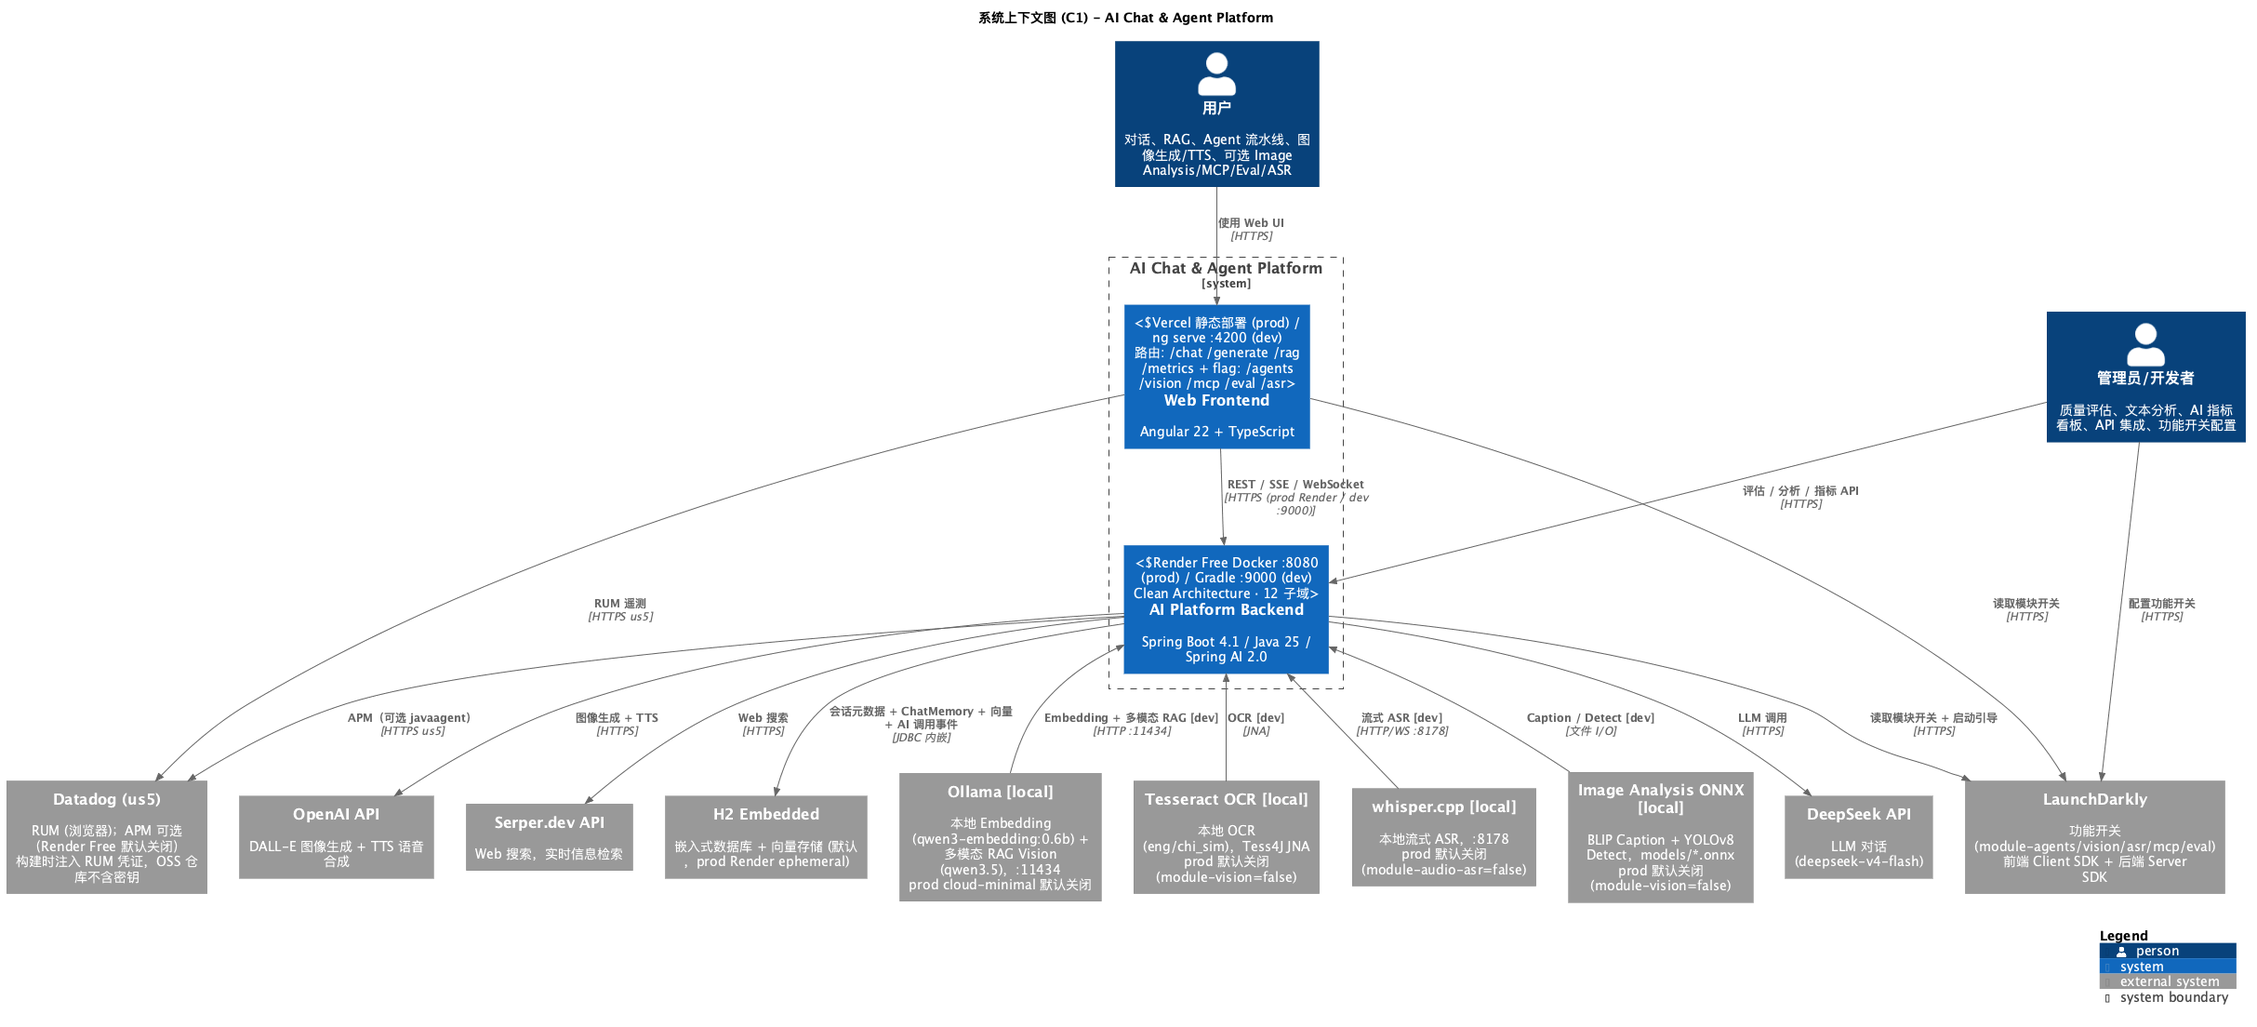
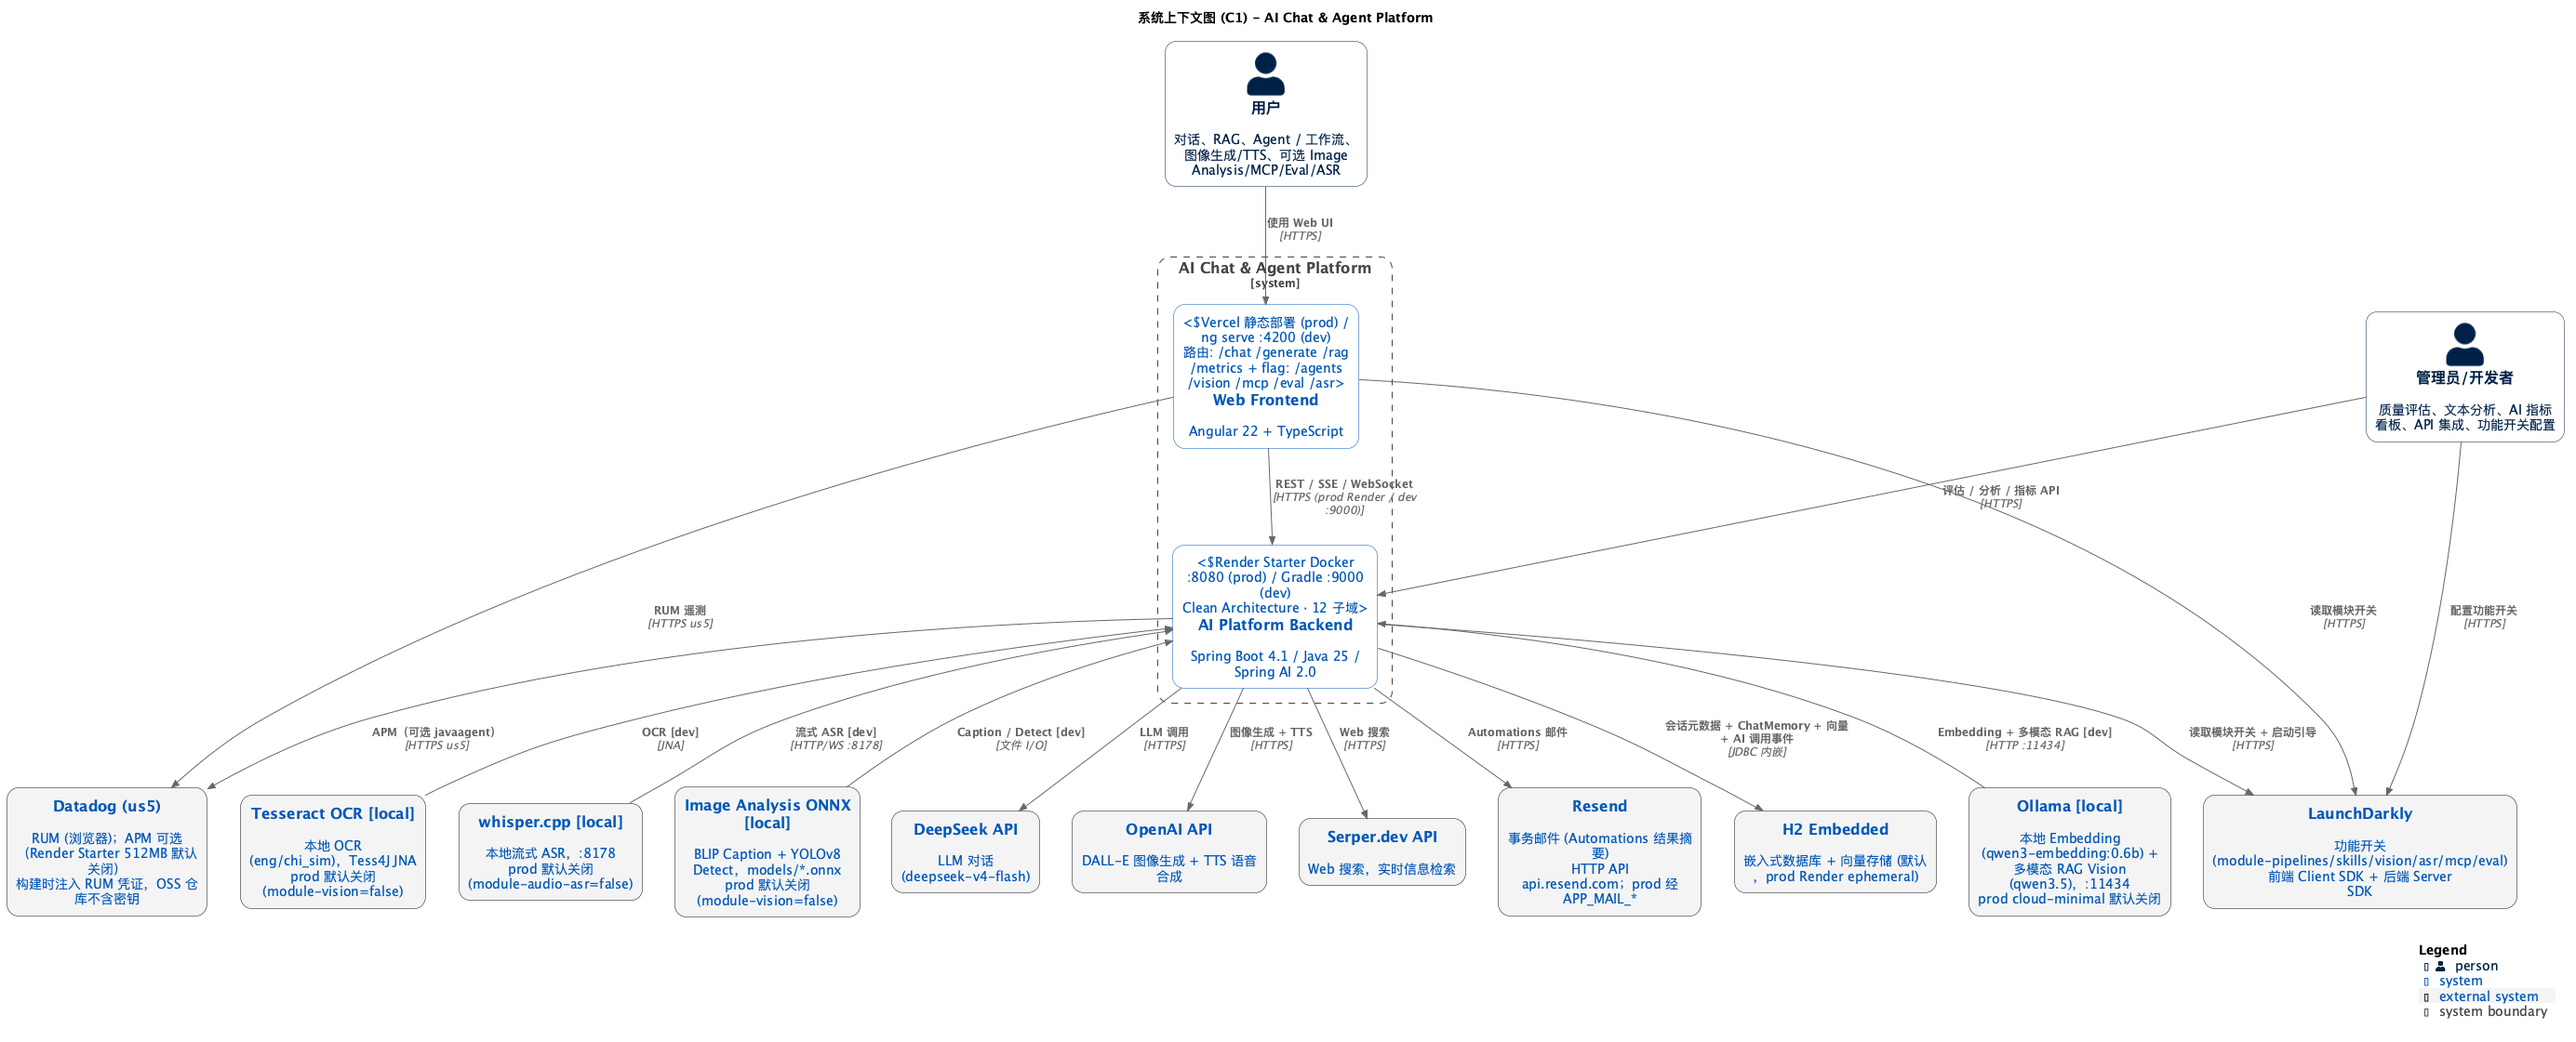
Apply C4_blue_new theme to context and container diagrams
Structural C1 and C2 should share the official wireframe
look so container boundaries read consistently in reviews.

References:
- https://c4model.com/#SystemContextDiagram
- https://c4model.com/#ContainerDiagram
- https://github.com/plantuml-stdlib/C4-PlantUML/tree/master/themes

diff --git a/docs/developer/c4-model/README.md b/docs/developer/c4-model/README.md
@@ -2,6 +2,17 @@
 
 使用 PlantUML 绘制的 C4 架构模型，描述 AI Chat & Agent Platform 的完整架构。
 
+Source of truth: `.puml`。官方 C4: [c4model.com](https://c4model.com/)。库: [C4-PlantUML](https://github.com/plantuml-stdlib/C4-PlantUML)。
+
+## Visual tracks
+
+| Track | Files | Style |
+| ----- | ----- | ----- |
+| **Structural C4** | C1–C3, Deployment | Official **`C4_blue_new`** theme（线框；勿与 zinc 混用） |
+| **Domain + Dynamics** | Code domain model, `C4-Dynamic-*` | Shared zinc look via [`style-zinc.puml`](style-zinc.puml) |
+
+Do not mix `C4_blue_new` into domain/dynamic diagrams（也不要把 `style-zinc.puml` 用于 structural C4）。
+
 ## 文件
 
 | 文件 | 层级 | 说明 |
